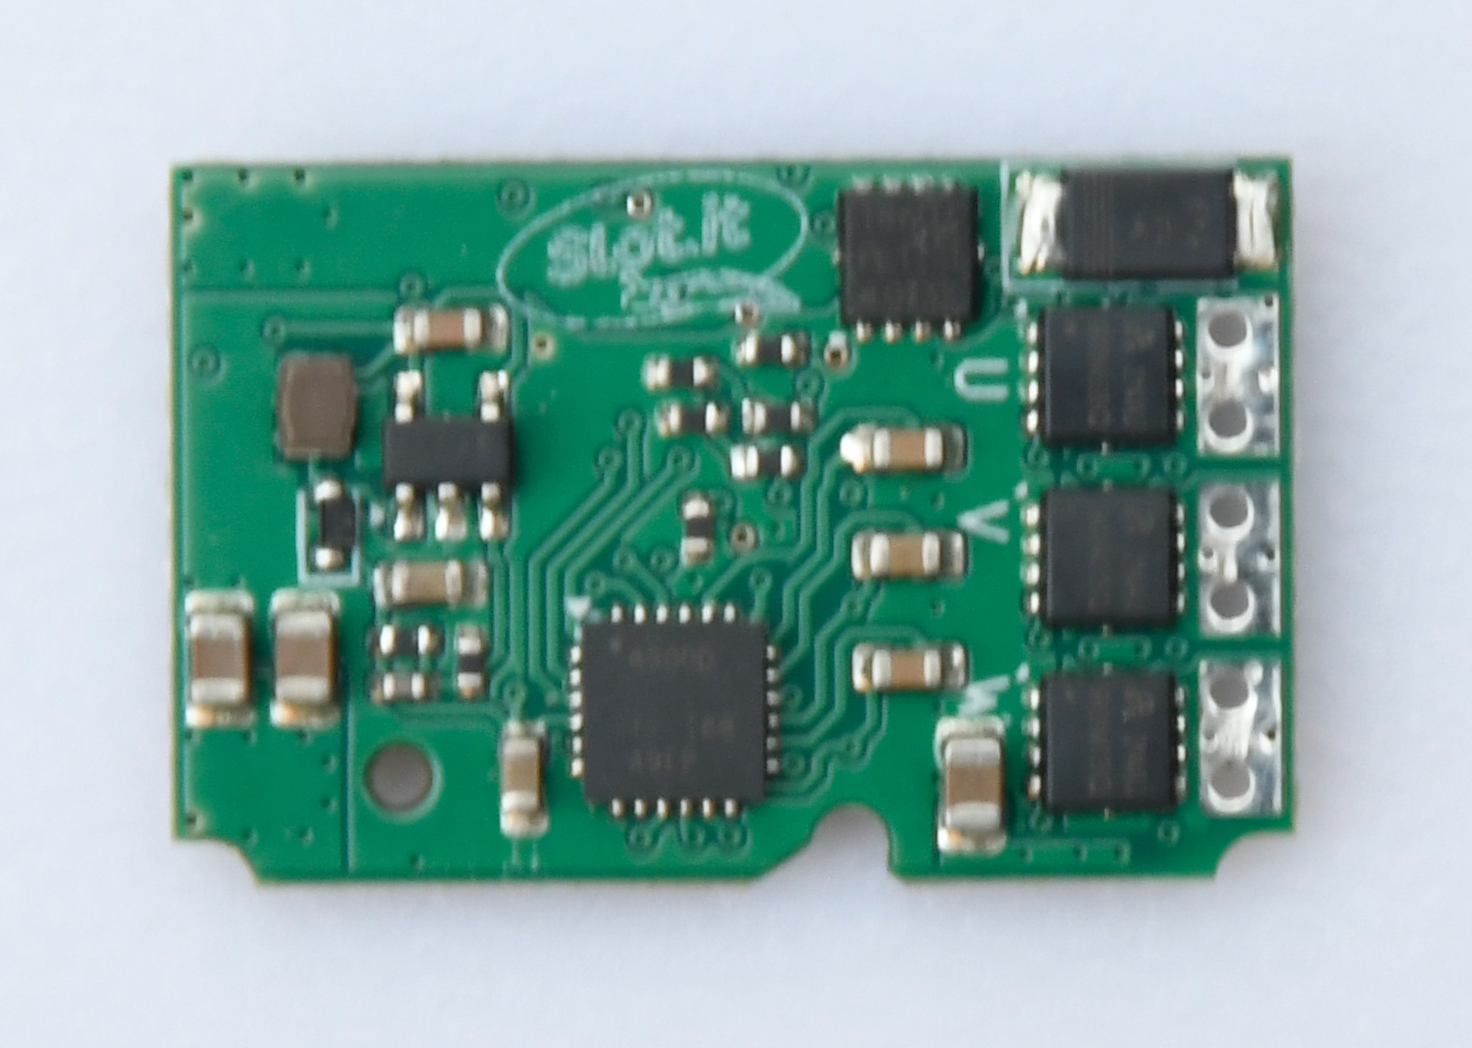
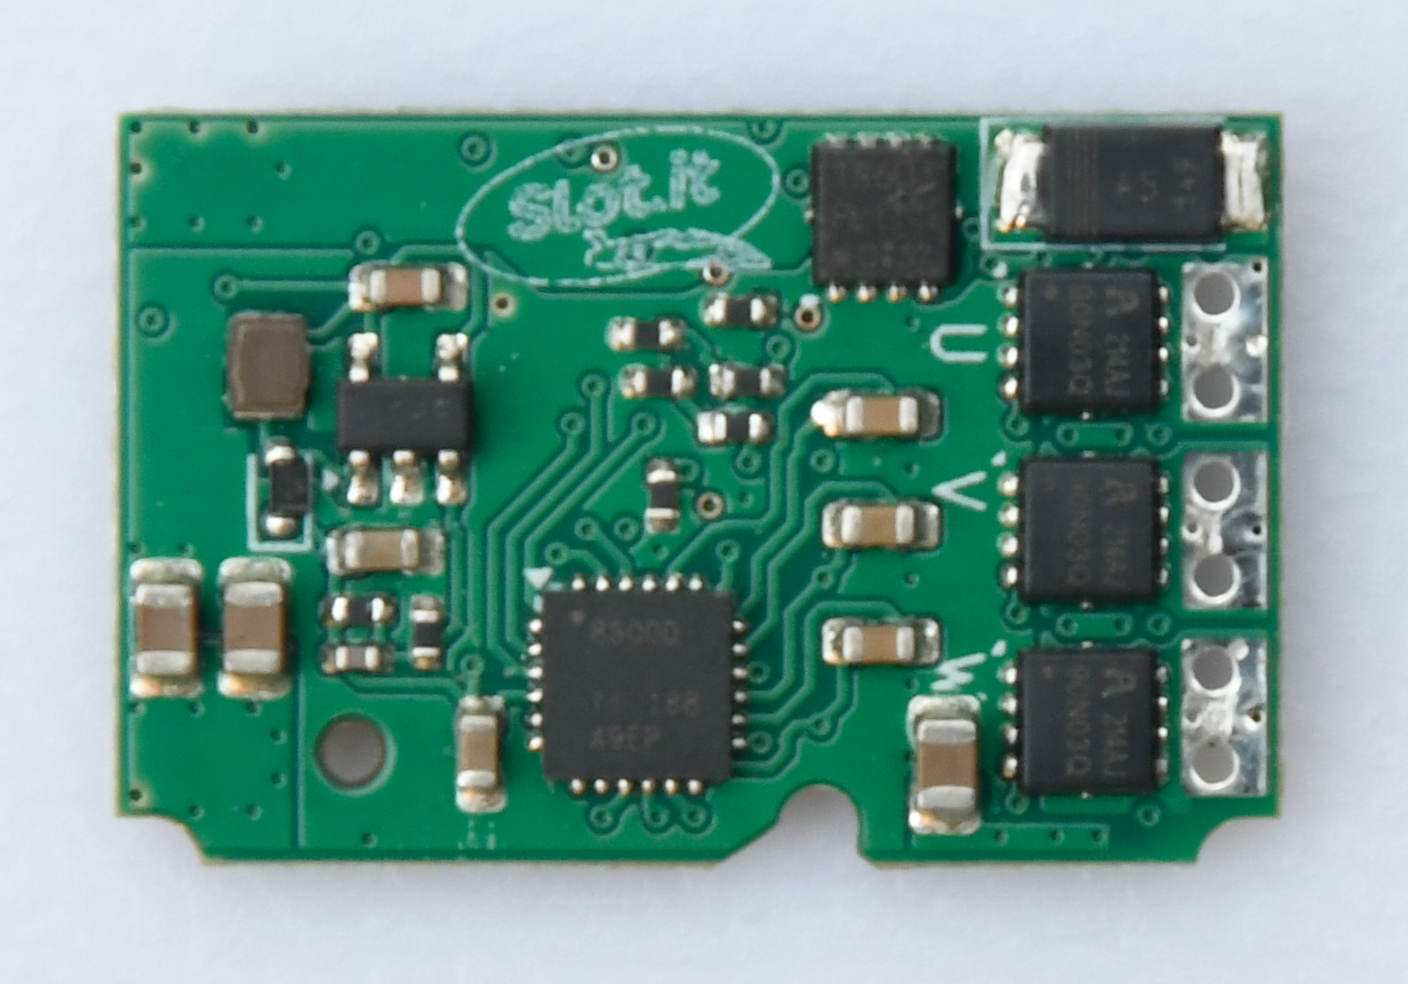
Google analytics

diff --git a/index.html b/index.html
@@ -878,7 +878,7 @@
         </div>
 
         <div style="max-width: 800px; margin: 2rem auto; padding: 1.5rem; background: rgba(99, 102, 241, 0.1); border-left: 4px solid var(--primary); border-radius: 8px;">
-            <p><strong>Installation Note:</strong> Requires careful installation - use a dremel wheel to grind off circlip or add spacers. Contact us for improvement ideas!</p>
+            <p><strong>Installation Note:</strong> Requires careful installation - use a dremel wheel to grind off the circlip or add spacers. Contact us for improvement ideas!</p>
         </div>
 
         <div style="text-align: center; margin-top: 2rem;">
